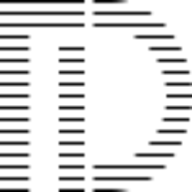
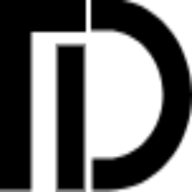
Clean up

diff --git a/index.html b/index.html
@@ -20,7 +20,7 @@
     <div class="container">
         <div class="row">
             <div class="col-lg-6 col-6 logo">
-                <img src="assets/images/logo.png" alt="The Interaction Department Logo">
+                <img src="assets/images/logo/logomark_lines.png" alt="The Interaction Department Logo">
             </div>
             <div class="col-lg-6 col-6">
                 <h1 class="mtc text-right">The Interaction Department</h1>
@@ -44,8 +44,7 @@
         <div class="row">
             <div class="col-lg-12">
                 <div class="border">
-                    <img src="assets/images/viz.png" style="width: 100%;"
-                         alt="The Iteraction Department data visualization">
+                    <img src="assets/images/viz.png" class="full-width" alt="The Interaction Department data visualization">
                 </div>
             </div>
         </div>
@@ -60,19 +59,24 @@
                 <div class="info-box border">
 
                     <div class="row">
-                        <div class="col-lg-2 col-2"><p><span style="font-weight:600">MISSION</span></p></div>
-                        <div class="col-lg-10 col-10"><p> it is our goal to improve the human condition using technology
-                            to create immersive experiences</p></div>
+                        <div class="col-lg-2 col-2">
+                            <p><span class="sixh">MISSION</span></p>
+                        </div>
+                        <div class="col-lg-10 col-10">
+                            <p>it is our goal to improve the human condition using technology to create immersive experiences</p>
+                        </div>
                     </div>
                     <div class="row">
-                        <div class="col-lg-2 col-2"><p><span style="font-weight:600">ABOUT</span></p></div>
-                        <div class="col-lg-10 col-10"><p> we are a group of interdisciplinary designers who have created
-                            massive-scale multimedia projects across the planet</p></div>
+                        <div class="col-lg-2 col-2"><p><span class="sixh">ABOUT</span></p></div>
+                        <div class="col-lg-10 col-10">
+                            <p> we are a group of interdisciplinary designers who have created massive-scale multimedia projects across the planet
+                            </p></div>
                     </div>
                     <div class="row">
-                        <div class="col-lg-2 col-2"><p><span style="font-weight:600">CYDONIA</span></p></div>
-                        <div class="col-lg-10 col-10"><p> we believe that human nightlife has been caught in a loop for
-                            centuries that everyone deserves more. ask us what we are doing about this problem</p></div>
+                        <div class="col-lg-2 col-2"><p><span class="sixh">CYDONIA</span></p></div>
+                        <div class="col-lg-10 col-10">
+                            <p> we believe that human nightlife has been caught in a loop for centuries that everyone deserves more. ask us what we are doing about this problem</p>
+                        </div>
                     </div>
 
                 </div>

diff --git a/assets/css/main.css b/assets/css/main.css
@@ -71,6 +71,12 @@ h1.copyright {
     font-weight: 200;
     font-size: .7rem;
 }
+.sixh {
+    font-weight: 600;
+}
+.full-width {
+    width: 100%;
+}
 @media (min-width: 1440px) {
     .container {
         max-width: 1140px;
@@ -81,7 +87,6 @@ h1.copyright {
   h1 {
     vertical-align: bottom;
     font-size: .75rem;
-
   }
 
   body{
